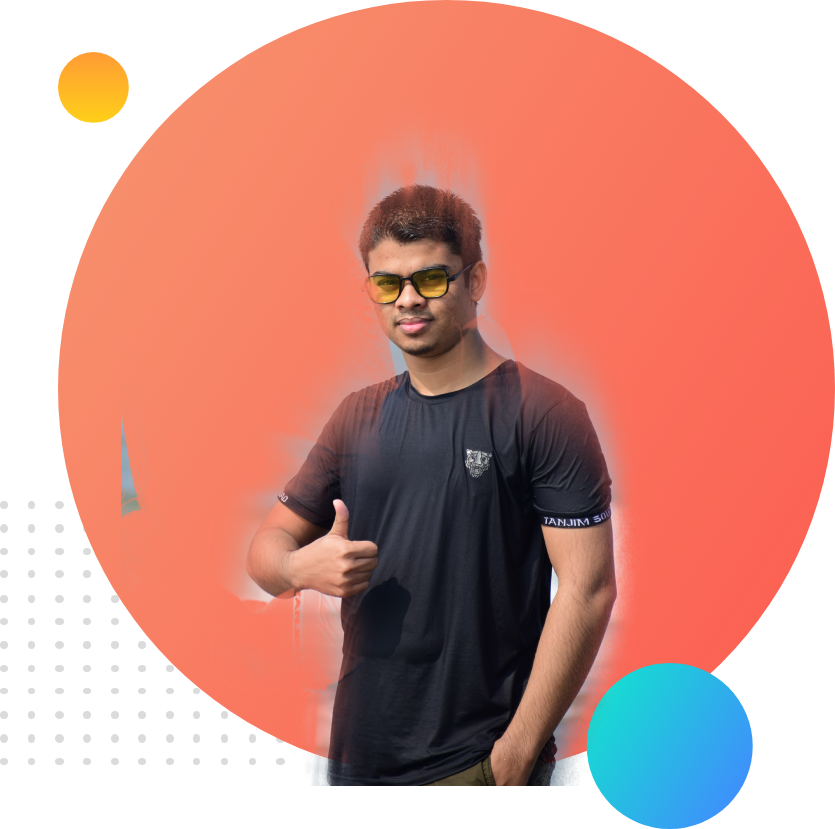
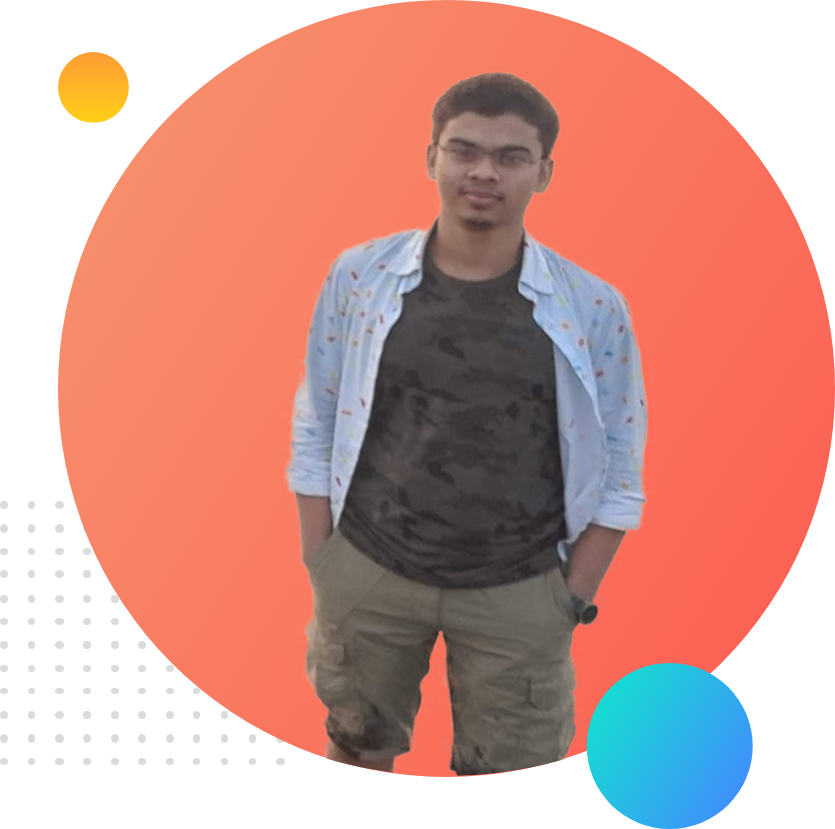
photo updated

Changed region(s): [[0.2802, 0.0905, 0.7784, 0.965], [0.1246, 0.5127, 0.1868, 0.6333]]

diff --git a/makewebsite.html b/makewebsite.html
@@ -9,11 +9,11 @@
     <link rel="stylesheet" href="makewebstyle.css">
 </head>
 <body>
-    <section class="top-banner">
 
+    <section  class="top-banner">
         <div class="half-width">
             <h1>Welcome to<br> <span class="orange-higlight">Munna's</span> Website</h1>
-            <h3>World class Web devlopment</h3>
+            <h3>World class Web development</h3>
             <P>I am Munna, i try to make web devlopment.becose this is my first website. and i am excited. lets go there.Get the web's modern capabilities on your own sites and apps with useful guidance and analysis /again repeat /I am Munna, i try to make web devlopment.becose this is my first website. and i am excited. lets go there.Get the web's modern capabilities on your own sites and apps with useful guidance and analysis </P>
             <a class="link-button" target="blank" href="https://www.linkedin.com/in/munna-hossain-b8b9541a1/">CLICK ME</a>
         </div>
@@ -24,36 +24,37 @@
         </div>
     </section>
 
-    <section class="dream-area">
+    <section  class="dream-area">
         <div class="half-width">
-            <img src="photos/my-bg.png" alt="">
+            <img src="photos/profile2.png" alt="">
         </div>
 
         <div class="half-width">
             <h2>Dream Big</h2>
-            <h3>Become world's First Class Web Devolapre</h3>
+            <h3>Become world's First Class Web Developer</h3>
             <p>Volunteering is a great way to gain real-world experience and add some interesting projects to your portfolio. Not only will you be gaining valuable experience; you’ll also be giving something back to the community. Win-win!</p>
             <p>While gaining as much real-world experience as possible, you also need to come up with a solid job-search strategy.</p>
             <a class="link-button" target="blank" href="https://www.linkedin.com/feed/">DOWNLOAD RESUME</a>
         </div>
     </section>
-        <section  class="expriences-area">
-            <h2>Expriences</h2>
-            <div id="full-stack" class="half-width single-expriences">
-                <h2>Full Stack Web Devlopment</h2>
-                <h3> <span class="orange-higlight">2021 -Present | Pro Level Web Dev</span></h3>
-                <p>The goal of the Full Stack Web Developer Nanodegree program is to equip learners with the unique skills they need to build database-backed APIs and web applications. A graduate of this program will be able to design and build databases for software applications, create and deploy database-backed web APIs, and secure and manage user authentication and access control for an application backend. Students will also learn how to deploy a Flask-based web application to the cloud using Docker and Kubernetes.</p>
-            </div>
-            <div id="baby-web" class="half-width single-expriences">
-                <h2>Baby Web Devolaper</h2>
-                <h3> <span class="orange-higlight"> 2020 - 2021 | Programming Hero Learner</span></h3>
-                <p>The goal of the Full Stack Web Developer Nanodegree program is to equip learners with the unique skills they need to build database-backed APIs and web applications. A graduate of this program will be able to design and build databases for software applications, create and deploy database-backed web APIs, and secure and manage user authentication and access control for an application backend. Students will also learn how to deploy a Flask-based web application to the cloud using Docker and Kubernetes.</p>
-            </div>
-            <footer>
-                <p>@Munna 2021, All Rights Reserved</p>
-            </footer>
-        </section>
-        
     
+    <section  class="expriences-area">
+        <h2 class="center">Expriences</h2>
+         <div id="full-stack" class="half-width single-expriences">
+            <h2>Full Stack Web Devlopment</h2>
+            <h3> <span class="orange-higlight">2021 -Present | Pro Level Web Dev</span></h3>
+            <p>The goal of the Full Stack Web Developer Nanodegree program is to equip learners with the unique skills they need to build database-backed APIs and web applications. A graduate of this program will be able to design and build databases for software applications, create and deploy database-backed web APIs, and secure and manage user authentication and access control for an application backend. Students will also learn how to deploy a Flask-based web application to the cloud using Docker and Kubernetes.</p>
+        </div>
+
+        <div id="baby-web" class="half-width single-expriences">
+            <h2>Baby Web Devolaper</h2>
+            <h3> <span class="orange-higlight"> 2020 - 2021 | Programming Hero Learner</span></h3>
+            <p>The goal of the Full Stack Web Developer Nanodegree program is to equip learners with the unique skills they need to build database-backed APIs and web applications. A graduate of this program will be able to design and build databases for software applications, create and deploy database-backed web APIs, and secure and manage user authentication and access control for an application backend. Students will also learn how to deploy a Flask-based web application to the cloud using Docker and Kubernetes.</p>
+        </div>
+        <footer>
+            <p>@Munna 2021, All Rights Reserved</p>
+        </footer>
+    </section>
+
 </body>
 </html>

diff --git a/makewebstyle.css b/makewebstyle.css
@@ -1,9 +1,9 @@
 body{
     font-family: 'Montserrat', sans-serif;
-    background-image: url("photos/top-banner.png");
+    /* background-image: url("photos/top-banner.png");
     /* background-image: url("photos/dream-bg.png"); */
     background-repeat: no-repeat;
-    margin: 0px;
+    margin: 0px; */
 }
 p{
     color: dimgray;
@@ -13,7 +13,9 @@ h1{
 }
 h2{
     font-size: 40px;
-    
+}
+.center{
+    text-align: center;
 }
 .half-width{
     width: 40%;
@@ -23,33 +25,19 @@ h2{
 }
 .orange-higlight{
     color: orange;
-   
 }
 .half-width img{
     width: 80%;
 }
-/* .top-banner{
+.top-banner{
     background-image: url("photos/top-banner.png");
     background-repeat: no-repeat;
     margin: 0px;
-} */
-/* .dream-area{
+}
+.dream-area{
     background-image: url("photos/dream-bg.png");
     background-repeat: no-repeat;
     background-position: right;
-} */
-.expriences-area{
-    float: left;
-}
-.section{
-    width: 500px;
-}
-.link-button{
-    background-image: linear-gradient(/*30deg,*/#f56e6e,#f82121,#ff0000);
-    color: white;
-    padding: 10px 20px;
-    border-radius: 7px;
-    text-decoration: none;
 }
 .single-expriences{
     border-radius: 12px;
@@ -58,13 +46,28 @@ h2{
     background-color: white;
 }
 .expriences-area{
+    float: left;
+}
+section{
+    width: 100%;
+}
+.link-button{
+    background-image: linear-gradient(/*30deg,*/#f56e6e,#f82121,#ff0000);
+    color: white;
+    padding: 10px 20px;
+    border-radius: 7px;
+    text-decoration: none;
+}
+
+.expriences-area{
     background-image: url("photos/exp-bg.png");
     background-repeat: no-repeat;
     background-position: left;
 }
+
 #full-stack{
     border-left: 10px;
-    border-image: linear-gradent(180deg,#fc6363,#fd1f1f);
+    border-image: linear-gradient(180deg,#fc6363,#fd1f1f);
     border-image-slice: 1;
 }
 #baby-web{
